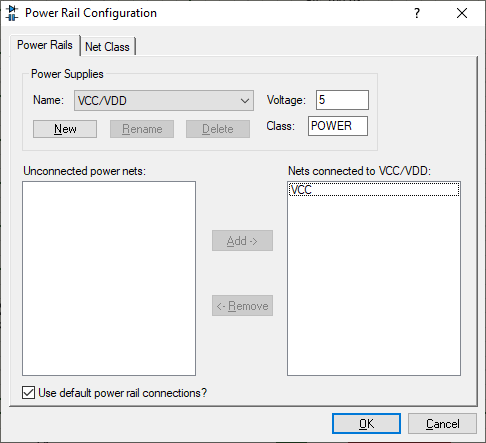
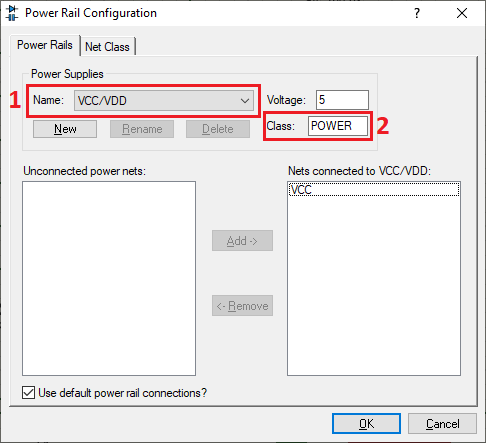
added push buttons naming instruction and updated schematic diagram

Changed region(s): [[0.0, 0.1761, 0.8025, 0.3228]]

diff --git a/Lab04/README.md b/Lab04/README.md
@@ -7,8 +7,13 @@
   <img src="img/power_supply_pins.png">
 </p>
 
-
-2. It is mandatory to configure the power rails before proceeding to laying out the signals. Go to _**Design → Configure Power Rails...**_. On the _**Power Rails**_ tab, all the power supplies used in your project will be visible on the drop down menu under tag _**Name**_.
+2. It is mandatory to configure the power rails before proceeding to laying out the PCB. Go to _**Design → Configure Power Rails...**_, and on the _**Power Rails**_ tab, all the power supplies used in your project will be visible on the drop down menu under tag _**Name**_ (1). Also, verify that all the signals have assigned the class __*POWER*__ (2).
 <p align="center">
   <img src="img/power_rails_configuration.PNG">
 </p>
+
+3. Check the _**Unconnected power nets**_ field and in case you see there any listed net, add it to the corresponding net class, either VCC/VDD or GND. This way, all the nets that belong to the same class will be part of the same node, even though they are name differently. 
+
+4. Open now the __*Net Class*__ tab. Here we configure the tracks width for the PCB. As you know from steps 1, 2 and 3, we have a __*POWER*__ net class, which connects all the power supply nets along the circuit, thus driving high current magnitudes. The second net class in our circuit is the __*SIGNAL*__ class, which connects all the tracks that drive low-current signals, such as port connections between the board and the &mu;C. Since _**SIGNAL**_ nets can be narrower than __*POWER*__ nets (because they drive lower currents), we can configure the tracks width for both clases to save space on the PCB.
+
+5. Select _**SIGNAL**_ on the _**Net Class**_ drop down menu, and choose _**T15**_ for __*Trace Style*__. This means that all the signal tracks will be routed using a track width of 15 mils. __*1 mil equals 1 thousandth of an inch, or 0.0254 mm*__, thus 15 mils = 0.381 mm. According to the Copper thickness of our board, which is 35 &mu;m, a track with a cross-section of 0.381 mm × 35 &mu;m is able to drive around 500 mA, which is enough for our application ([see further information about track width design](https://www.protoexpress.com/blog/trace-current-capacity-pcb-design/)).
